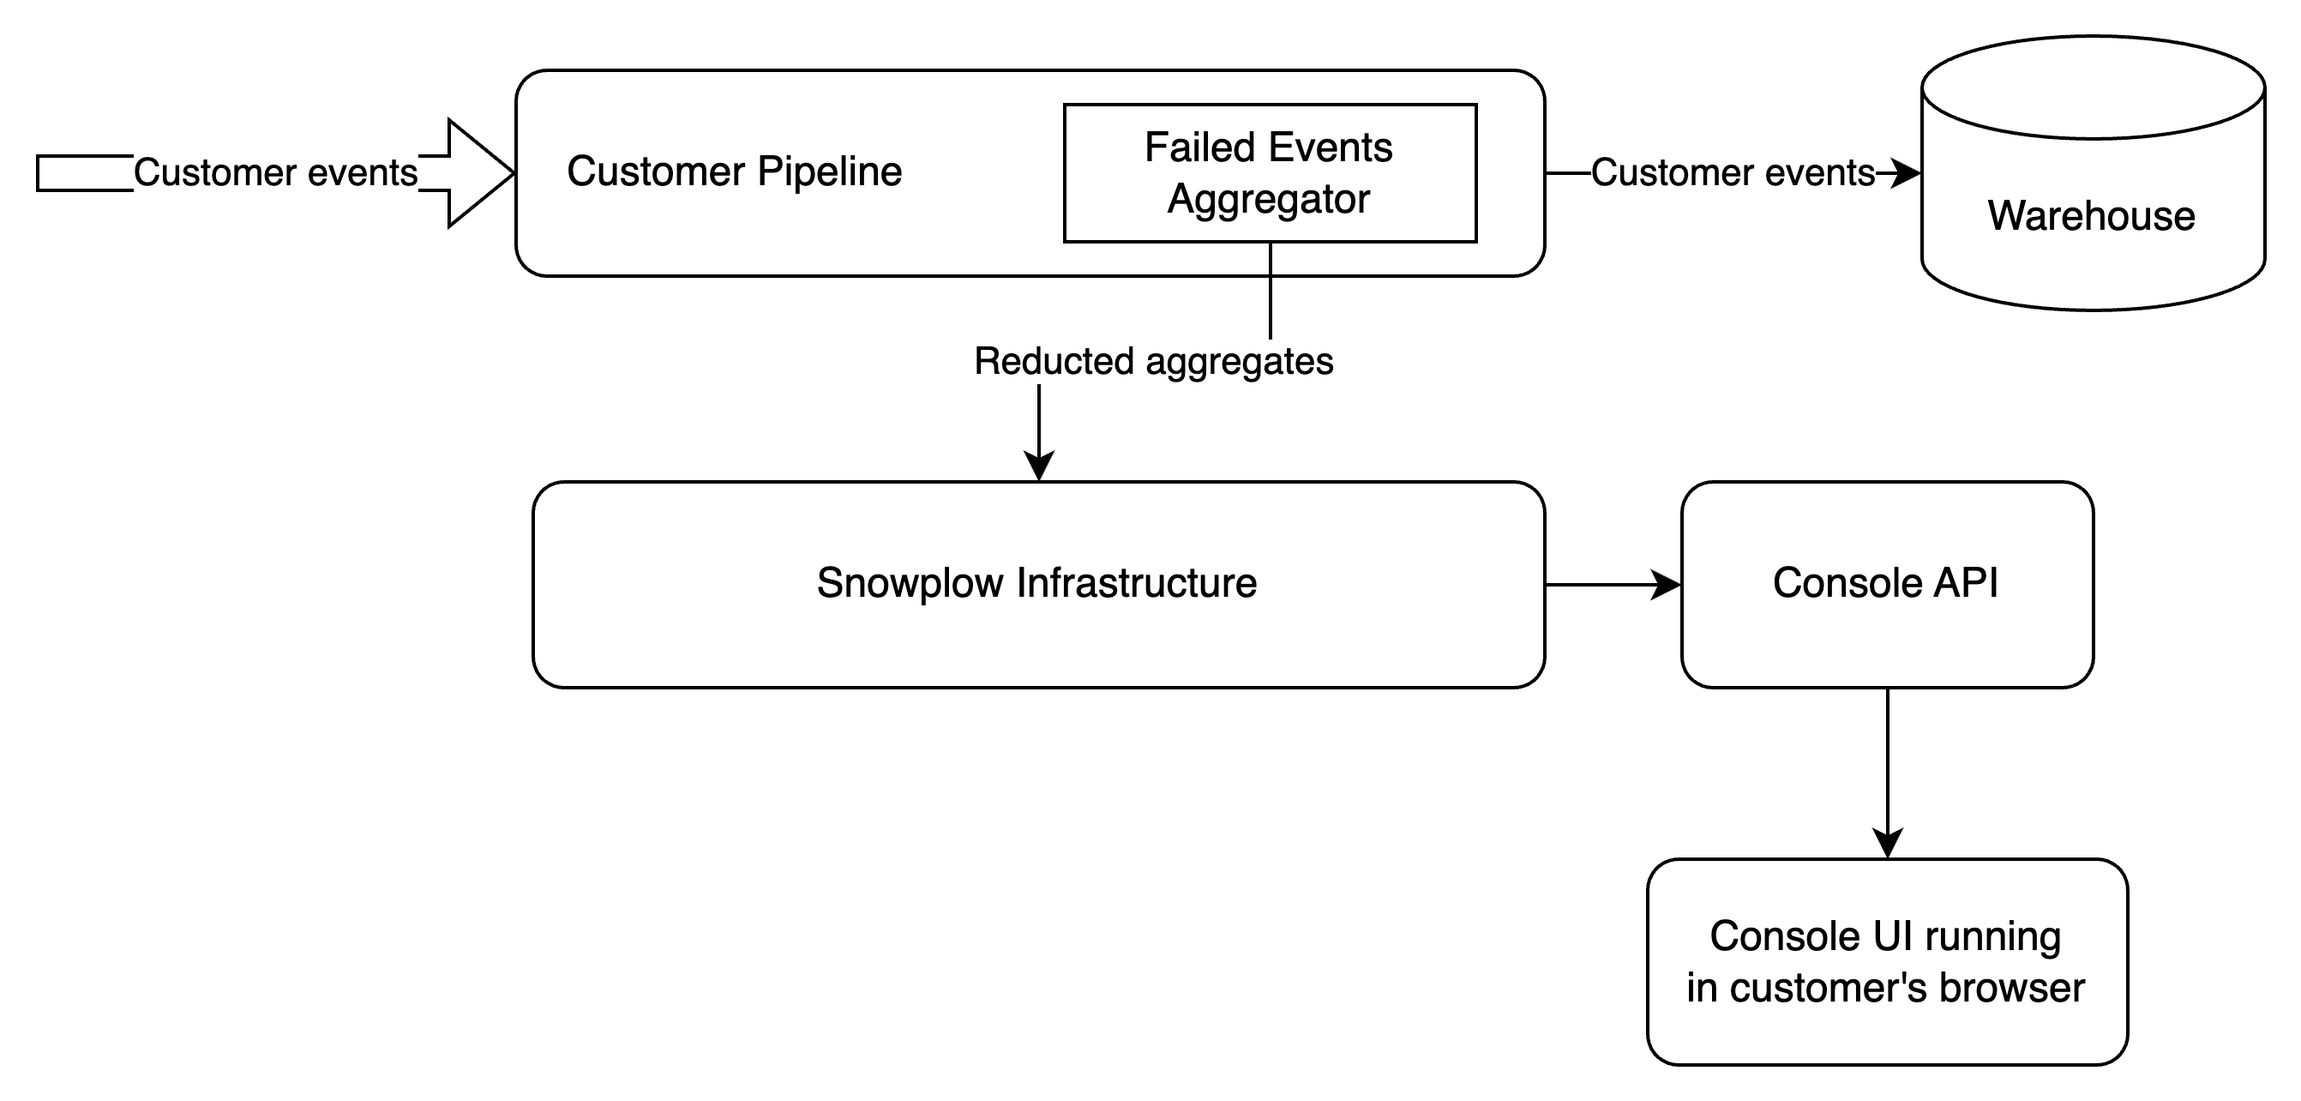
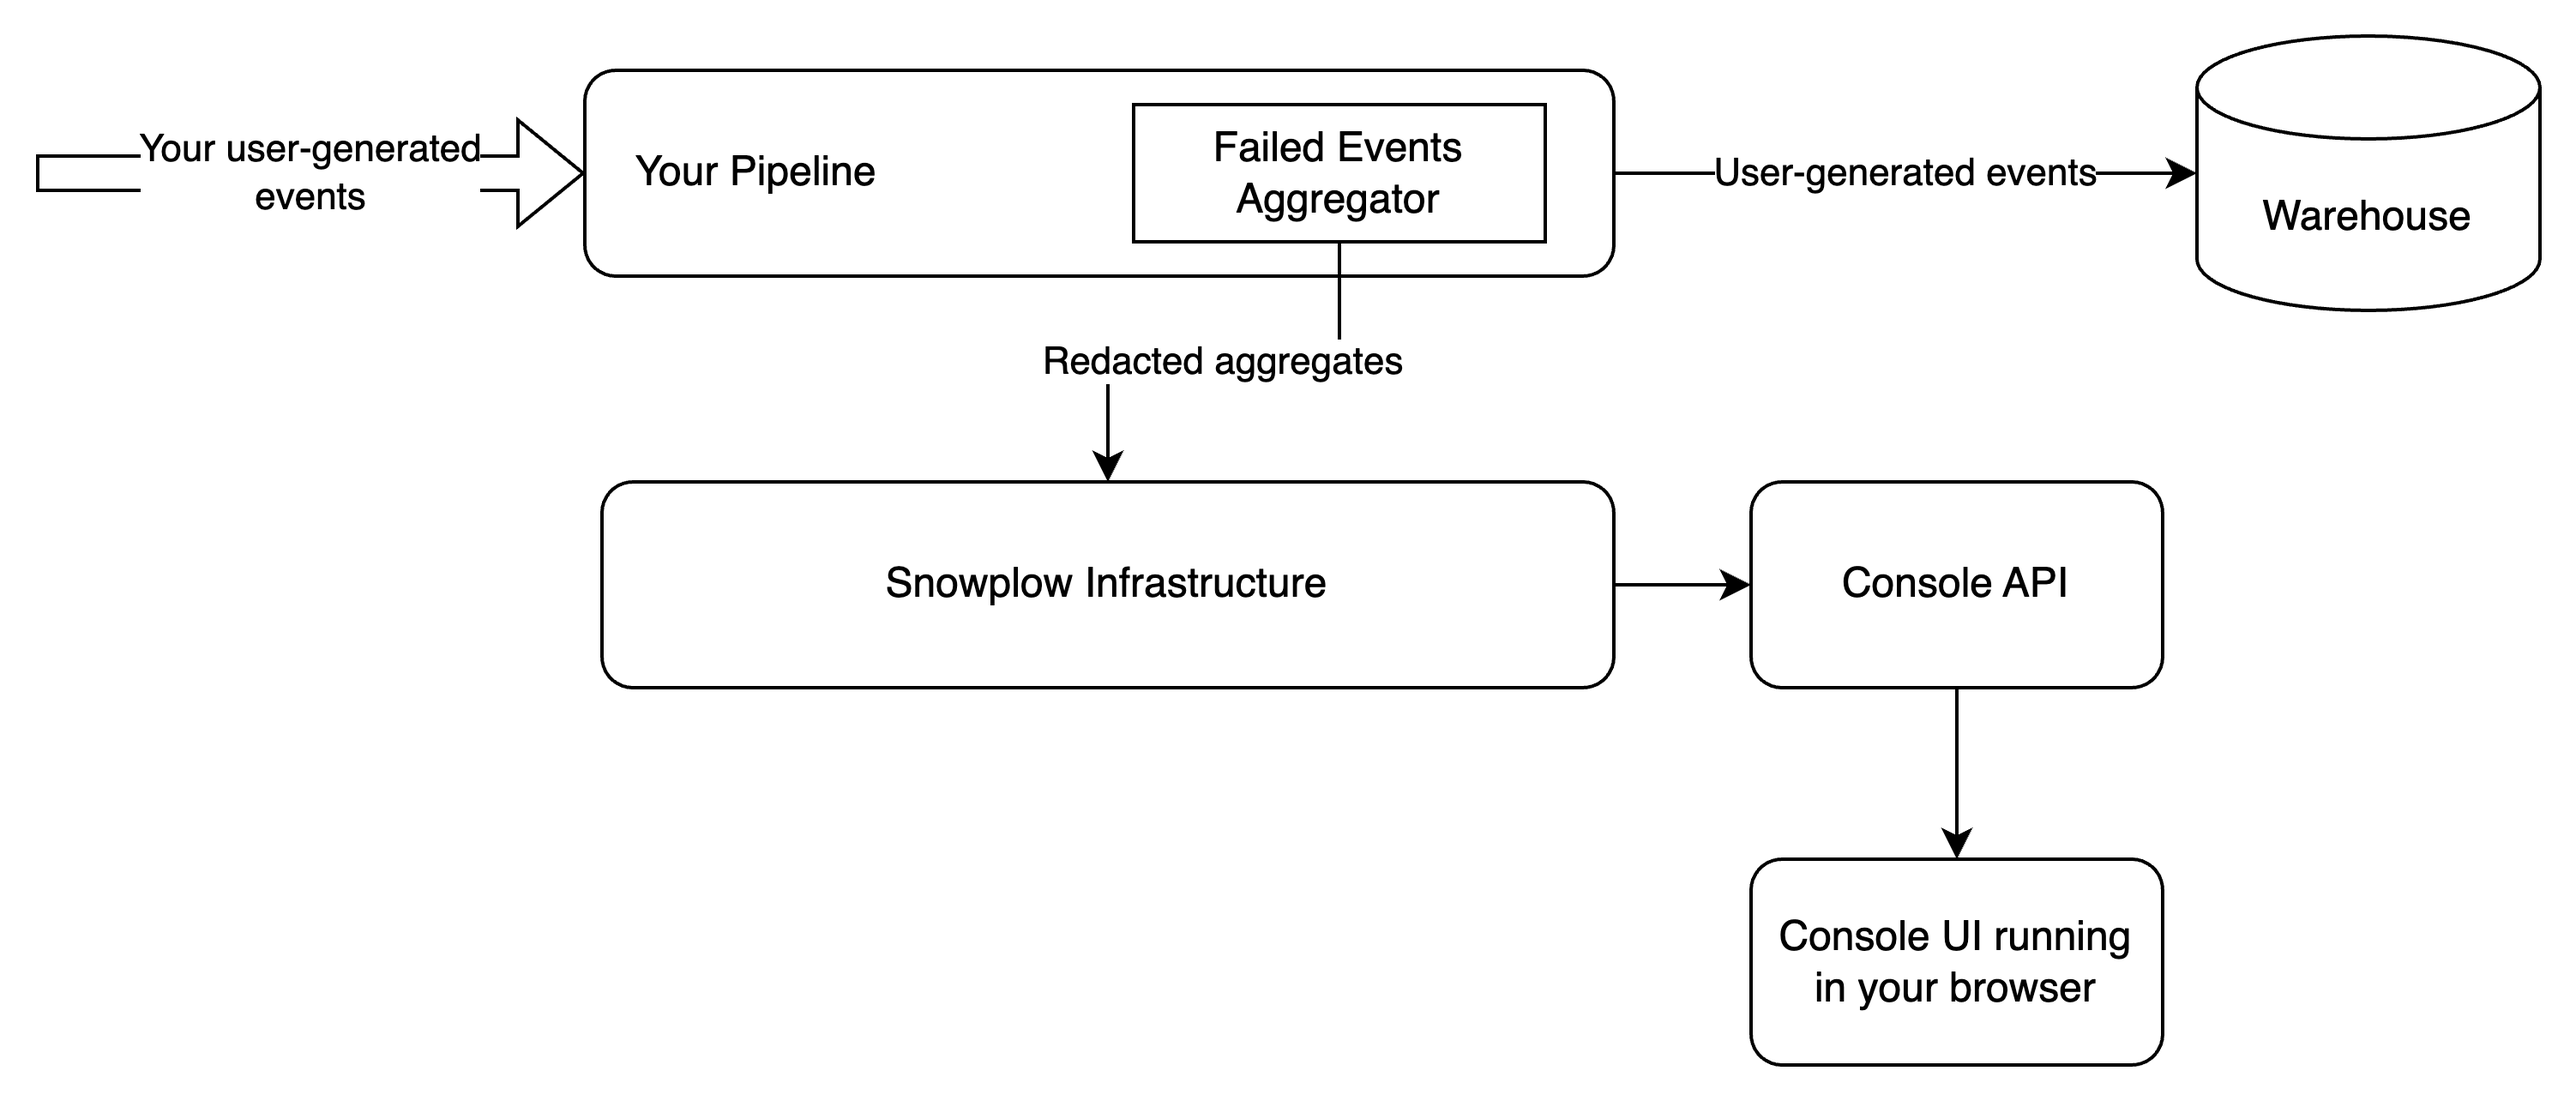
Review comments

diff --git a/docs/data-product-studio/data-quality/failed-events/monitoring-failed-events/ui/index.md b/docs/data-product-studio/data-quality/failed-events/monitoring-failed-events/ui/index.md
@@ -7,25 +7,29 @@ sidebar_position: 2000
 
 Snowplow pipelines separate events that are problematic in order to keep data quality high in downstream systems. For more information on understanding failed events see [here](/docs/fundamentals/failed-events/index.md).
 
-For Snowplow customers that would like to benefit from seeing aggregates of failed events by type, there are relevant optional features in the Snowplow BDP Console. Snowplow offers two different ways to monitor failed events: The default view with little available information to debug errors, and the new Data Quality Dashboard which surfaces failed events directly from the customer's warehouse in a secure manner, making debugging a lot easier. The two ways are representing a trade-off between ease of exploration and avoidance of PII exposure, which we will discuss in detail below.
+For Snowplow customers that would like to benefit from seeing aggregates of failed events by type, there are relevant optional features in the Snowplow BDP Console. Snowplow offers two different ways to monitor failed events: 
+- the default view with little available information to debug errors, and 
+- the Data Quality Dashboard that surfaces failed events directly from your warehouse in a secure manner, making debugging a lot easier. 
 
-# Default view
+The two ways are representing a trade-off between ease of exploration and avoidance of PII exposure, which we will discuss in detail below.
 
-## Architecture
+## Default view
 
-The default view is a relatively simple interface that shows the number of failed events over time alongside a coarse-grained description of the problem at hand. In certain cases, the error message can be somewhat cryptic in terms of diagnosing the root cause of the error. The reason is that this information flows through Snowplow infrastructure, therefore we have reducted it substantially before it leaves the customer's pipeline to ensure that PII does not traverse Snowplow systems. The aggregates are served by the Console's backend:
+### Architecture
+
+The default view is a relatively simple interface that shows the number of failed events over time alongside a coarse-grained description of the problem at hand. In certain cases, the error message can be somewhat cryptic in terms of diagnosing the root cause of the error. The reason is that this information flows through Snowplow infrastructure, therefore we have redacted it substantially before it leaves your pipeline, to ensure that PII does not traverse Snowplow systems. The aggregates are served by the Console's backend:
 
 ![](images/aggregator-architecture.png)
 
-In this setup, the customer exposes no additional interface to the public internet, and all failed events information is served by the Console's APIs.
+In this setup, you expose no additional interface to the public internet, and all failed events information is served by the Console's APIs.
 
-## User Experience
+### User Experience
+
+Below is an example view of the failed events screen in the Snowplow BDP Console:
 
 ![](images/image-1024x1024.png)
 
-Example view of the failed events screen in the Snowplow BDP Console.
-
-This interface is intended to give our customers a quick representation of the volume of event failures so that action can be taken. The UI focuses on schema violation and enrichment errors at present.
+This interface is intended to give you a quick representation of the volume of event failures so that action can be taken. The UI focuses on schema violation and enrichment errors at present.
 
 We've filtered on these two types of errors to reduce noise like bot traffic that causes adapter failures for instance. All failed events can be found in your S3 or GCS storage targets partitioned by type and then date/time.
 
@@ -33,29 +37,27 @@ At the top there is a data quality score that compares the volume of failed even
 
 The bar chart shows how the total number of failed events varies over time, colour-coding validation and enrichment errors. The time window is 7 days be default but can be extended to 14 or 30 days.
 
-In the table failed events are aggregated by the unique type of failure (validation, enrichment) and the offending schema.
+In the table, failed events are aggregated by the unique type of failure (validation, enrichment) and the offending schema.
 
 By selecting a particular error you are able to get more detail:
 
 ![](images/image-1-1024x1009.png)
 
-Example failed event detail view.
+The detailed view shows the error message as well as other useful metadata (when available), like `app_id`, to help diagnose the source and root cause of the error; as well as a bar chart indicating how the volume of failures varies over time for this particular failed event.
 
-The detailed view shows the error message as well as other useful metadata (when available) like app_id as an example to help diagnose the source and root cause of the error, as well as a bar chart indicating how the volume of failures varies over time for this particular failed event.
+## Data Quality Dashboard
 
-# Data Quality Dashboard
+### Architecture
 
-## Architecture
+The Data Quality Dashboard allows you to see failed events directly from your warehouse. Your browser connects directly to an API running within your infrastructure, such that no failed event information flows through Snowplow. The discussion of architecture is important as it highlights the trade-offs between the two ways of monitoring failed events. The aforementioned API is a simple proxy that connects to your warehouse and serves the failed events to your browser. The connection is fully secure, using an encrypted channel (HTTPS) and authenticating/authorizing via the same mechanism used by Console.
 
-The discussion of architecture is important as it highlights the trade-offs between the two ways of monitoring failed events. As mentioned above, the Data Quality Dashboard is a feature that allows customers to see failed events directly from their warehouse. To achieve that, the customer's browser connects directly to an API running within customer infrastructure, such that no failed event information flows through Snowplow. The aforementioned API is a simple proxy that connects to the customer's warehouse and serves the failed events to the customer's browser. The connection is fully secure, using an encrypted channel (HTTPS) and authenticating/authorizing customers via the same mechanism used by the Console.
-
-In order for a customer to be able to deploy and use the Data Quality Dashboard, they need to sink failed events to the warehouse via a [Failed Events Loader](/docs/data-product-studio/data-quality/failed-events/exploring-failed-events/warehouse-lake/#setup). At the moment the Data Quality Dashboard only supports Snowflake; support for Databricks and BigQuery is coming soon.
+In order for you to be able to deploy and use the Data Quality Dashboard, you need to sink failed events to the warehouse via a [Failed Events Loader](/docs/data-product-studio/data-quality/failed-events/exploring-failed-events/warehouse-lake/#setup). At the moment the Data Quality Dashboard only supports Snowflake; support for Databricks and BigQuery is coming soon.
 
 ![](images/dqd-architecture.png)
 
-In this setup, the customer exposes an additional interface (Data Quality API) to the public internet, and all failed events information is served via that interface.
+In this setup, you expose an additional interface (Data Quality API) to the public internet, and all failed events information is served via that interface.
 
-## User Experience
+### User Experience
 
 The user experience of the Data Quality Dashboard is similar to the default view, but offers substantially more information to support resolution of tracking issues. The overview page looks as follows:
 
@@ -63,17 +65,19 @@ The user experience of the Data Quality Dashboard is similar to the default view
 
 As in the default view, it is possible to change the time horizon from the 7-day default, to the last hour, last day, or last 30 days. You get a corresponding overview of event volumes, both the successful and the failed ones, for the whole time period but also split per day/hour/minute in the bar chart right below. 
 
-Complementing the graphical overview, there is a table that lists all errors (at this moment only validation and resolution errors are supported). You can quickly see, for each type of failed event, a short description of the root cause, the offending data structure, first & last seen timestamps, and the total volume.
+Complementing the graphical overview, there is a table that lists all errors (at this moment only validation and resolution errors are supported). You can quickly see, for each type of failed event, a short description of the root cause, the offending data structure, first and last seen timestamps, and the total volume.
 
 Clicking on a particular error type will take you to a detailed view:
 
 ![](images/dqd-details.png)
 
-The detailed view shows (in addition to what is presented in the overview table) an elaborate description of the root cause and the application version ([web](/docs/sources/trackers/snowplow-tracker-protocol/ootb-data/app-information/#application-context-entity-on-web-apps), [mobile](/docs/sources/trackers/mobile-trackers/tracking-events/platform-and-application-context/)). In addition, it makes it possible to explore the failed event data in your warehouse, by providing a sample of those failed events in their entirety. Some columns are too wide to fit in the table, so if you click on them you will see the pretty-printed, syntax-highlighted content in its entirety. It is worth pointing out that the most useful column to explore is probably `CONTEXTS_COM_SNOWPLOWANALYTICS_SNOWPLOW_FAILURE_1`, which contains the actual error information encoded as a JSON object:
+The detailed view also shows a description of the root cause and the application version ([web](/docs/sources/trackers/snowplow-tracker-protocol/ootb-data/app-information/#application-context-entity-on-web-apps), [mobile](/docs/sources/trackers/mobile-trackers/tracking-events/platform-and-application-context/)). It provides a sample of the failed events in their entirety, as found in your warehouse.
+
+Some columns are too wide to fit in the table: click on them to see the full pretty-printed, syntax-highlighted content. The most useful column to explore is probably `CONTEXTS_COM_SNOWPLOWANALYTICS_SNOWPLOW_FAILURE_1`, which contains the actual error information encoded as a JSON object:
 
 ![](images/cell-content.png)
 
-Finally, you can click on the "View SQL query" button to see the SQL query that was used to fetch the failed events from your warehouse:
+Finally, you can click on the **View SQL query** button to see the SQL query that was used to fetch the failed events from your warehouse:
 
 ![](images/sql-query.png)
 
